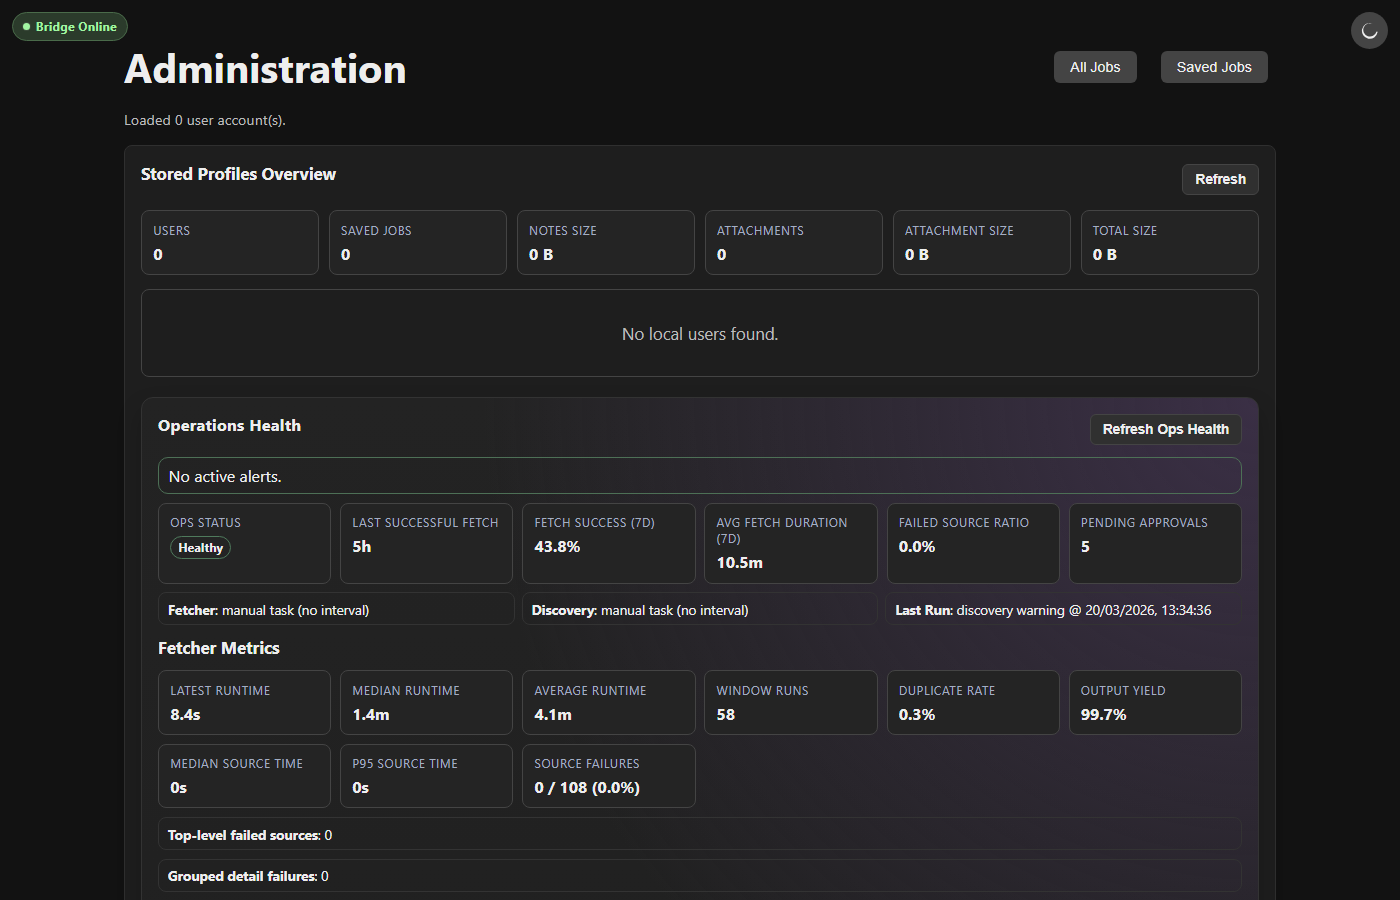
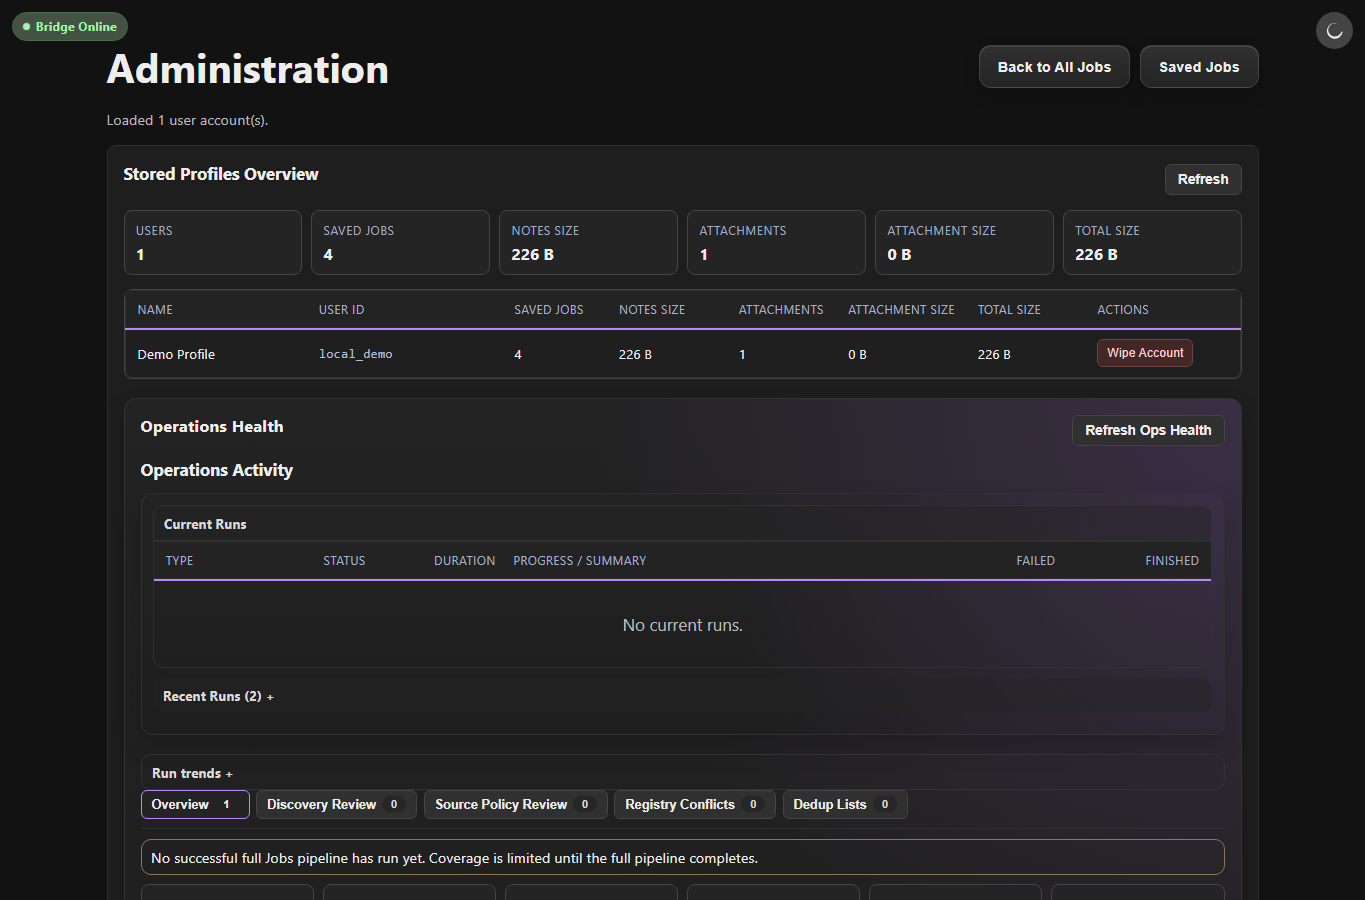
Refresh README for Linux desktop support

diff --git a/README.md b/README.md
@@ -1,22 +1,26 @@
 # Baluffo
 
-[![License: MIT](https://img.shields.io/badge/License-MIT-yellow.svg)](https://opensource.org/licenses/MIT) [![Tests](https://github.com/deathuman/Baluffo/actions/workflows/test.yml/badge.svg?branch=main)](https://github.com/deathuman/Baluffo/actions/workflows/test.yml) [![Lint](https://github.com/deathuman/Baluffo/actions/workflows/lint.yml/badge.svg?branch=main)](https://github.com/deathuman/Baluffo/actions/workflows/lint.yml) [![Build Portable EXE](https://github.com/deathuman/Baluffo/actions/workflows/build-portable-exe.yml/badge.svg)](https://github.com/deathuman/Baluffo/actions/workflows/build-portable-exe.yml) ![Platform](https://img.shields.io/badge/Platform-Windows-blue) ![Tech](https://img.shields.io/badge/Tech-Python%2BJS-orange)
+[![License: MIT](https://img.shields.io/badge/License-MIT-yellow.svg)](https://opensource.org/licenses/MIT) [![Tests](https://github.com/deathuman/Baluffo/actions/workflows/test.yml/badge.svg?branch=main)](https://github.com/deathuman/Baluffo/actions/workflows/test.yml) [![Lint](https://github.com/deathuman/Baluffo/actions/workflows/lint.yml/badge.svg?branch=main)](https://github.com/deathuman/Baluffo/actions/workflows/lint.yml) [![Build Portable EXE](https://github.com/deathuman/Baluffo/actions/workflows/build-portable-exe.yml/badge.svg)](https://github.com/deathuman/Baluffo/actions/workflows/build-portable-exe.yml) [![Build Linux](https://github.com/deathuman/Baluffo/actions/workflows/build-linux.yml/badge.svg)](https://github.com/deathuman/Baluffo/actions/workflows/build-linux.yml) ![Platform](https://img.shields.io/badge/Platform-Windows%20%2B%20Linux-blue) ![Tech](https://img.shields.io/badge/Tech-Python%2BJS-orange)
 
 ## What is Baluffo? 🚀
 
-Baluffo aggregates game development job listings from across the web into one fast, local-first app. No logins, no cloud, no hassle — just a better way to find your next game dev role.
+Baluffo aggregates game development job listings from across the web into one fast, local-first desktop app for Windows and Linux. No cloud account, no required sync, no hassle — just a better way to find your next game dev role.
 
-🟢 **Local-first** &nbsp; 🔒 **No login required** &nbsp; 📦 **Portable** &nbsp; 🌙 **Dark mode** &nbsp; ✨ **Fully vibe coded**
+🟢 **Local-first** &nbsp; 🔒 **No cloud account** &nbsp; 📦 **Windows ZIP/EXE + Linux AppImage** &nbsp; 🌙 **Dark mode** &nbsp; ✨ **Fully vibe coded**
 
 ---
 
 ## Quick Start
 
-1. **Download** the portable EXE from [Releases](https://github.com/deathuman/Baluffo/releases)
-2. **Run** — double-click `Baluffo.exe`, it opens automatically in your browser
+1. **Download** Baluffo from [Releases](https://github.com/deathuman/Baluffo/releases)
+   - Windows: `baluffo-portable-<version>.zip`
+   - Linux: `Baluffo-<version>-x86_64.AppImage`
+2. **Run**
+   - Windows: extract the ZIP and double-click `Baluffo.exe`
+   - Linux: `chmod +x Baluffo-<version>-x86_64.AppImage`, then `./Baluffo-<version>-x86_64.AppImage`
 3. **Browse** — filter by region, work type, or search text, then save jobs you like
 
-That's it. Your data stays on your machine.
+That's it. Your data stays on your machine. Windows packaged data lives under `%APPDATA%\Baluffo`; Linux follows XDG paths. See [Local Setup](docs/LOCAL_SETUP.md) and [WSL/Linux Setup](docs/WSL_SETUP.md) for development and platform details.
 
 ---
 
@@ -32,11 +36,11 @@ That's it. Your data stays on your machine.
 
 | 🔍 Smart Filtering | 💾 Save & Track | ⚡ Fast & Local | 🎮 Game Dev Focus |
 |---|---|---|---|
-| Filter by region, work type, city, sector, profession, and text search | Save jobs with notes, track application status, add custom entries | All data stored locally — no cloud, no waiting | Curated for game industry roles from studios worldwide |
+| Filter by region, work type, city, sector, profession, and text search | Save jobs with notes, reminders, activity history, and custom entries | Desktop data is local-first and bridge-backed, with browser-mode fallbacks | Curated for game industry roles from studios worldwide |
 
-| 🌍 Region-Aware | 📦 Backup & Restore | 🛠 Source Management | 🌗 Dark Theme |
+| 🌍 Region-Aware | 📦 Backup & Restore | 🛠 Source Management | 🖥 Desktop Releases |
 |---|---|---|---|
-| Filter by continents: Europe, North America, South America, Asia, Africa, Oceania | Export to JSON or ZIP, import anytime — your data stays yours | Discover new sources, approve/reject in Admin panel | Toggle between light and dark modes |
+| Filter by continents: Europe, North America, South America, Asia, Africa, Oceania | Export to JSON or ZIP, import anytime — your data stays yours | Discover new sources, approve/reject in Admin panel | Windows portable builds, Linux AppImages, and desktop update support |
 
 ---
 
@@ -48,8 +52,9 @@ That's it. Your data stays on your machine.
 ### Tech Stack
 
 - **Frontend:** plain HTML/CSS/JavaScript with native ES modules (no framework)
-- **Backend:** Python scripts and CLIs for jobs fetching, source discovery, and admin bridge
-- **Storage:** localStorage + IndexedDB (browser mode), file-based (desktop mode)
+- **Backend:** Python bridge, jobs pipeline, source discovery, and release tooling
+- **Desktop:** Windows portable EXE/ZIP and Linux AppImage built from the ship bundle
+- **Storage:** browser-mode localStorage + IndexedDB; desktop-mode bridge-backed file storage
 
 ### Quick Development Setup
 
@@ -75,6 +80,7 @@ npm run dev:pipeline
 - [Docs Workflow](docs/DOCS_WORKFLOW.md) — documentation ownership, freshness checks, and maintenance rules
 - [Architecture Map](docs/architecture-ai-map.md) — subsystem boundaries and file routing
 - [Testing Guide](docs/testing.md) — verification commands and fixture guidance
+- [WSL/Linux Setup](docs/WSL_SETUP.md) — Linux packaging, AppImage, and WSL workflow notes
 - [Admin Bridge API](docs/admin-bridge-api.md) — endpoint reference
 - [Release Process](docs/RELEASE.md) — build and release guide
 - [Scraping Pipeline](docs/scraping-pipeline.md) — Playwright and Scrapy flow
@@ -87,9 +93,9 @@ npm run dev:pipeline
 .
 |- *.html                    # Page entry points (jobs.html, saved.html, admin.html)
 |- frontend/                  # ES module frontend code
-|  |- shared/                 # Shared UI components, local-data clients, config, state hub
-|  |- jobs/                   # Jobs browser page + page-owned helpers (state.js, parsing-utils.js)
-|  |- saved/                  # Saved jobs page + backup helpers (zip-utils.js)
+|  |- shared/                 # Shared UI components, desktop/browser local-data clients, config, state hub
+|  |- jobs/                   # Jobs browser page and feed/filter runtime
+|  |- saved/                  # Saved jobs page, tracking UI, notes, attachments, backup helpers
 |  |- admin/                  # Admin console page
 |  |- local-data/             # Browser IndexedDB adapter
 |- .tmp/                      # Repo-owned temp roots (pytest, Playwright, packaged smoke probes)
@@ -106,11 +112,13 @@ npm run dev:pipeline
 |  |- core/                   # Core schemas and contracts (Pydantic models)
 |  |- shared/                 # Shared utilities (regex, utils, exceptions)
 |  |- scrapers/               # Scrapy runner and spiders
-|  |- ship/                   # Desktop packaging
-|- scripts/                   # Build/orchestration scripts
+|  |- ship/                   # Desktop packaging, updater, runtime launcher, platform compat
+|  |  |- desktop_app/         # Windows/Linux desktop launcher helpers
+|- packaging/                 # Desktop release metadata and Linux AppImage assets
+|- scripts/                   # Build/orchestration scripts for Windows and Linux packaging
 |- probes/                    # Development/testing probes
 |- docs/                      # Documentation
-|- data/                      # Jobs feed outputs, source registries
+|- data/                      # Repo/source-run jobs feed outputs, source registries, local user data
 ```
 
 ### Running Tests
@@ -118,13 +126,18 @@ npm run dev:pipeline
 ```powershell
 npm run verify        # Full build + test suite
 npm run test:py      # Python tests
+npm run test:py:linux # Linux packaging/compatibility Python tests
 npm run test:frontend:unit  # Frontend unit tests
+npm run test:frontend:linux # Linux frontend/package smoke checks
+npm run build:portable-exe  # Windows portable desktop build
+npm run build:linux         # Linux AppImage build
 ```
 
 ### Configuration
 
 - Default config: `baluffo.config.json`
 - Local overrides: `baluffo.config.local.json` (not committed)
+- Runtime data override: `BALUFFO_DATA_DIR` or `--data-dir`
 - Config precedence: CLI → env → local config → committed config
 
 </details>
@@ -142,4 +155,5 @@ This project is licensed under the MIT License. See the [LICENSE](LICENSE) file 
 - This project is optimized for local/personal operation
 - Third-party source reliability may vary (rate limits, anti-bot, temporary failures)
 - Always verify critical job details on the original posting
+- Linux AppImage support expects a desktop Linux/WSL environment with AppImage/FUSE support; see [WSL/Linux Setup](docs/WSL_SETUP.md)
 - Source registry sync is transition-aware: local delete is tombstone-backed, and remote sync snapshots only carry `active` and `pending` rows.
